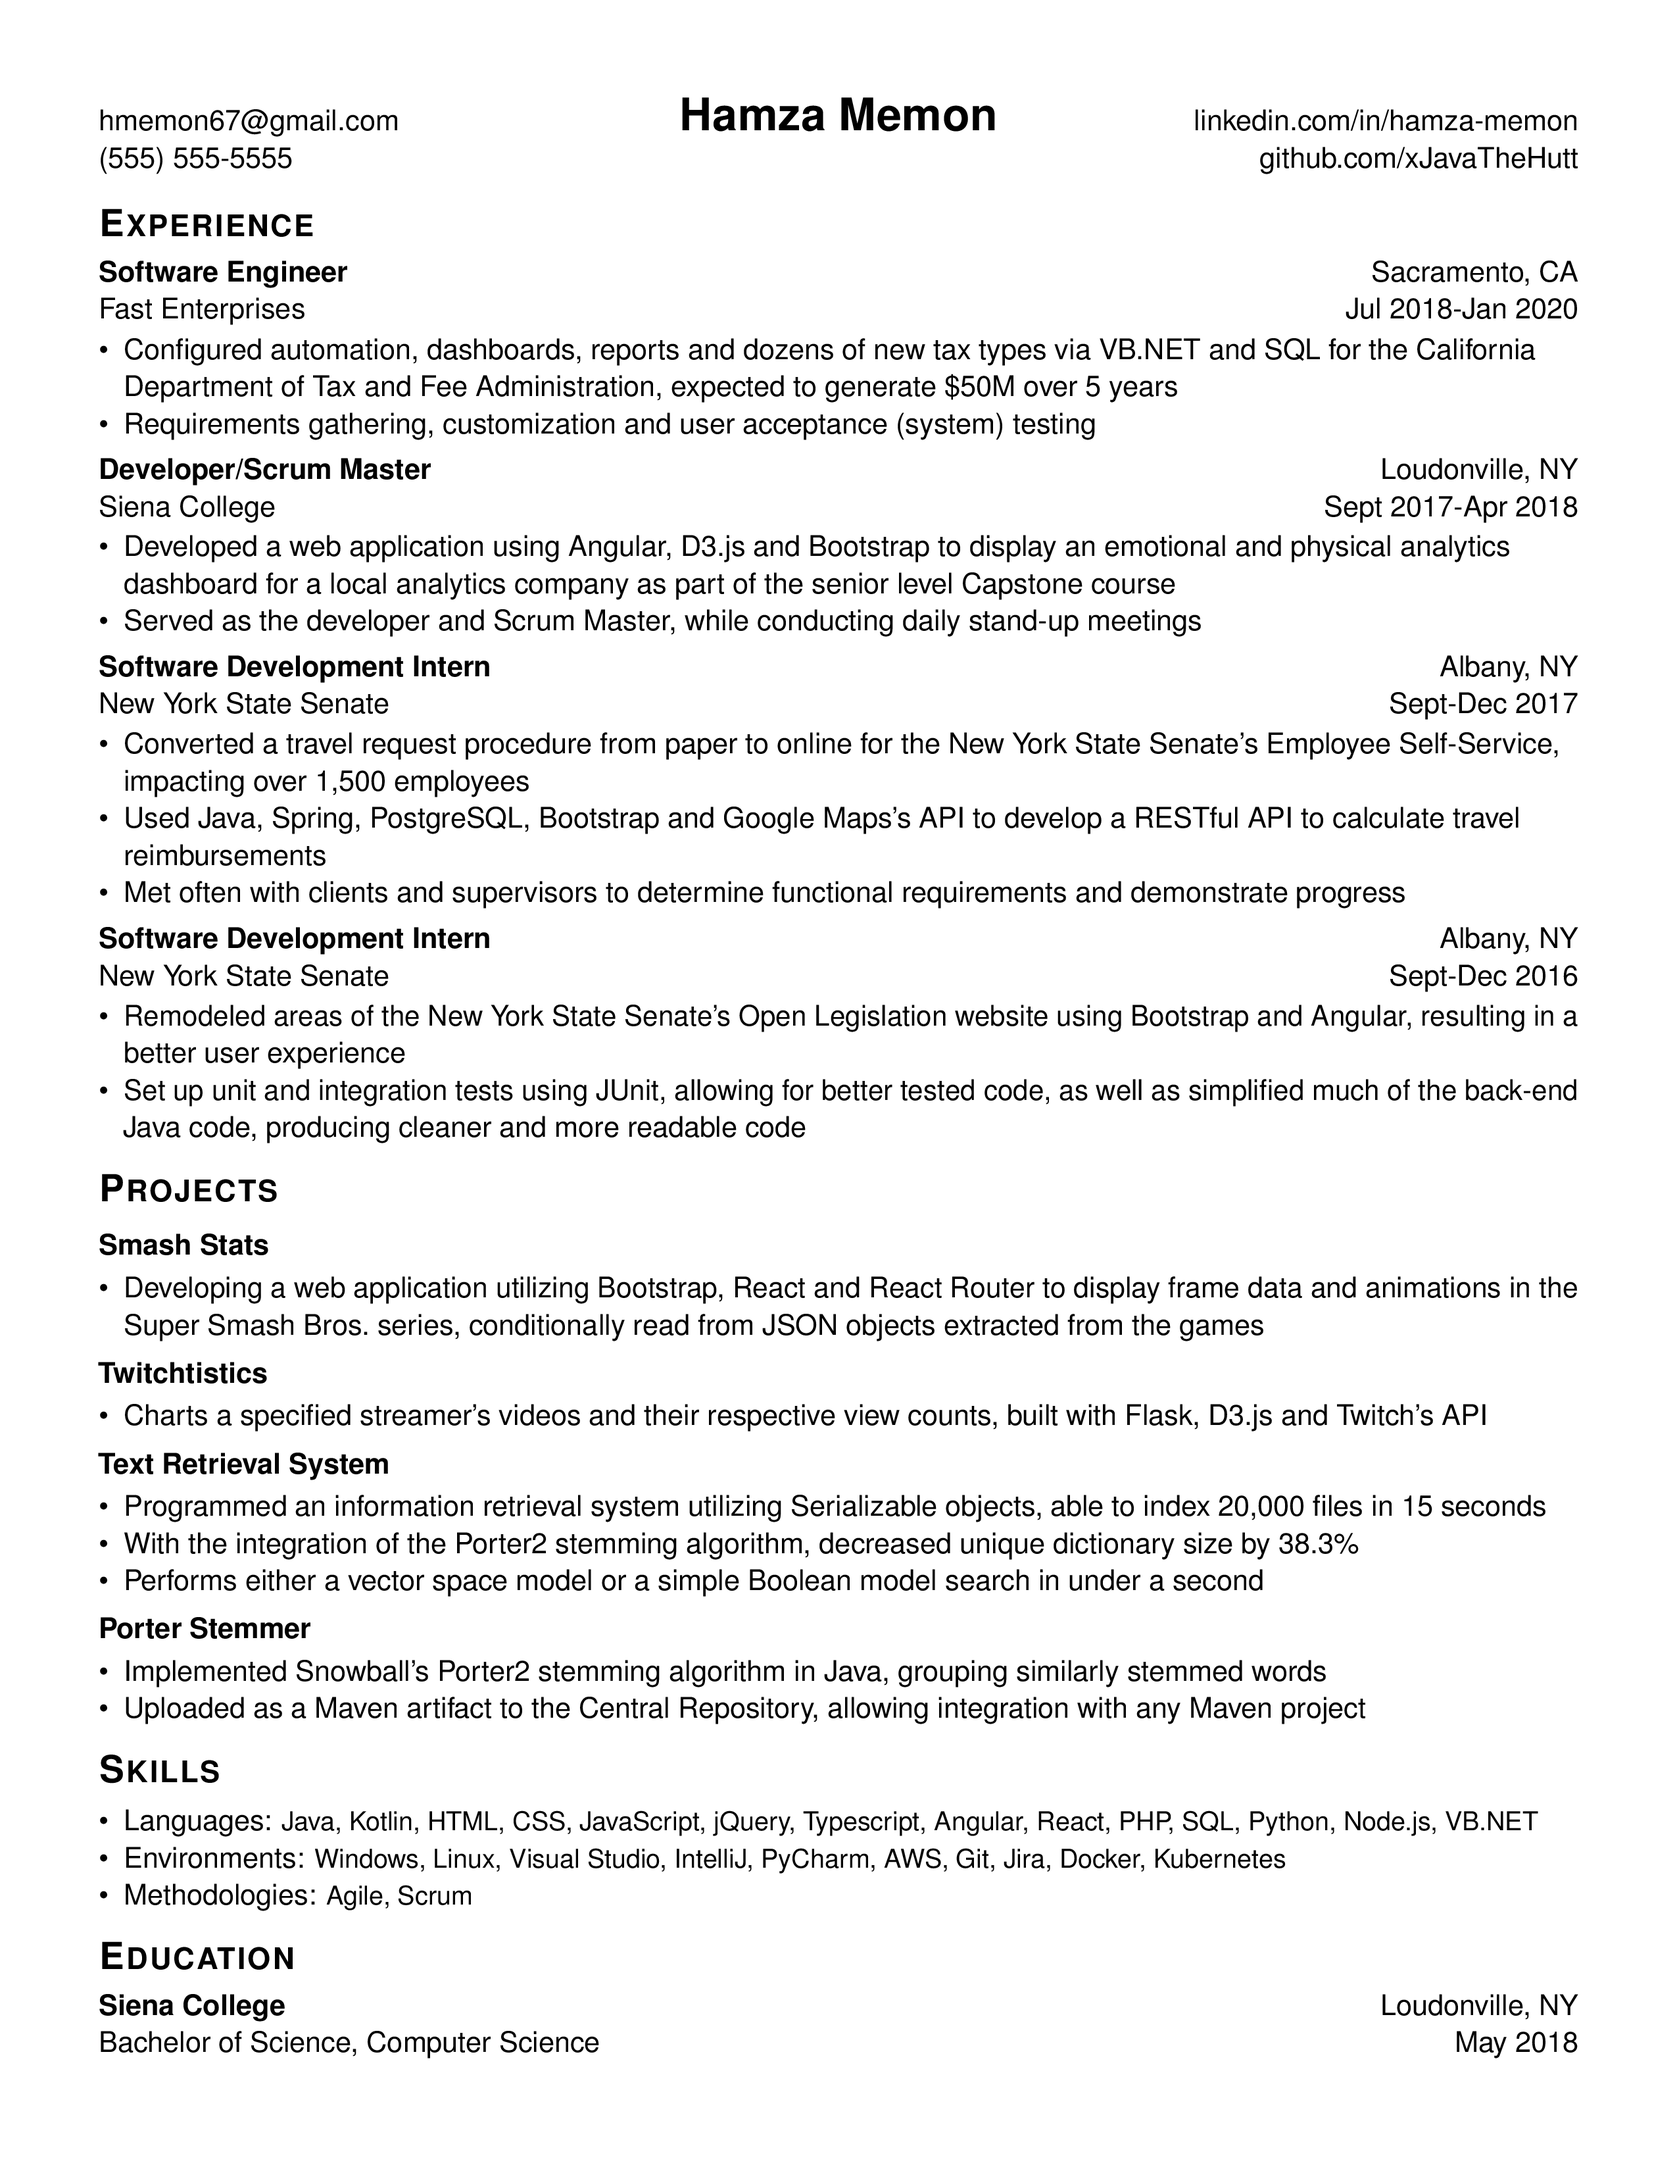
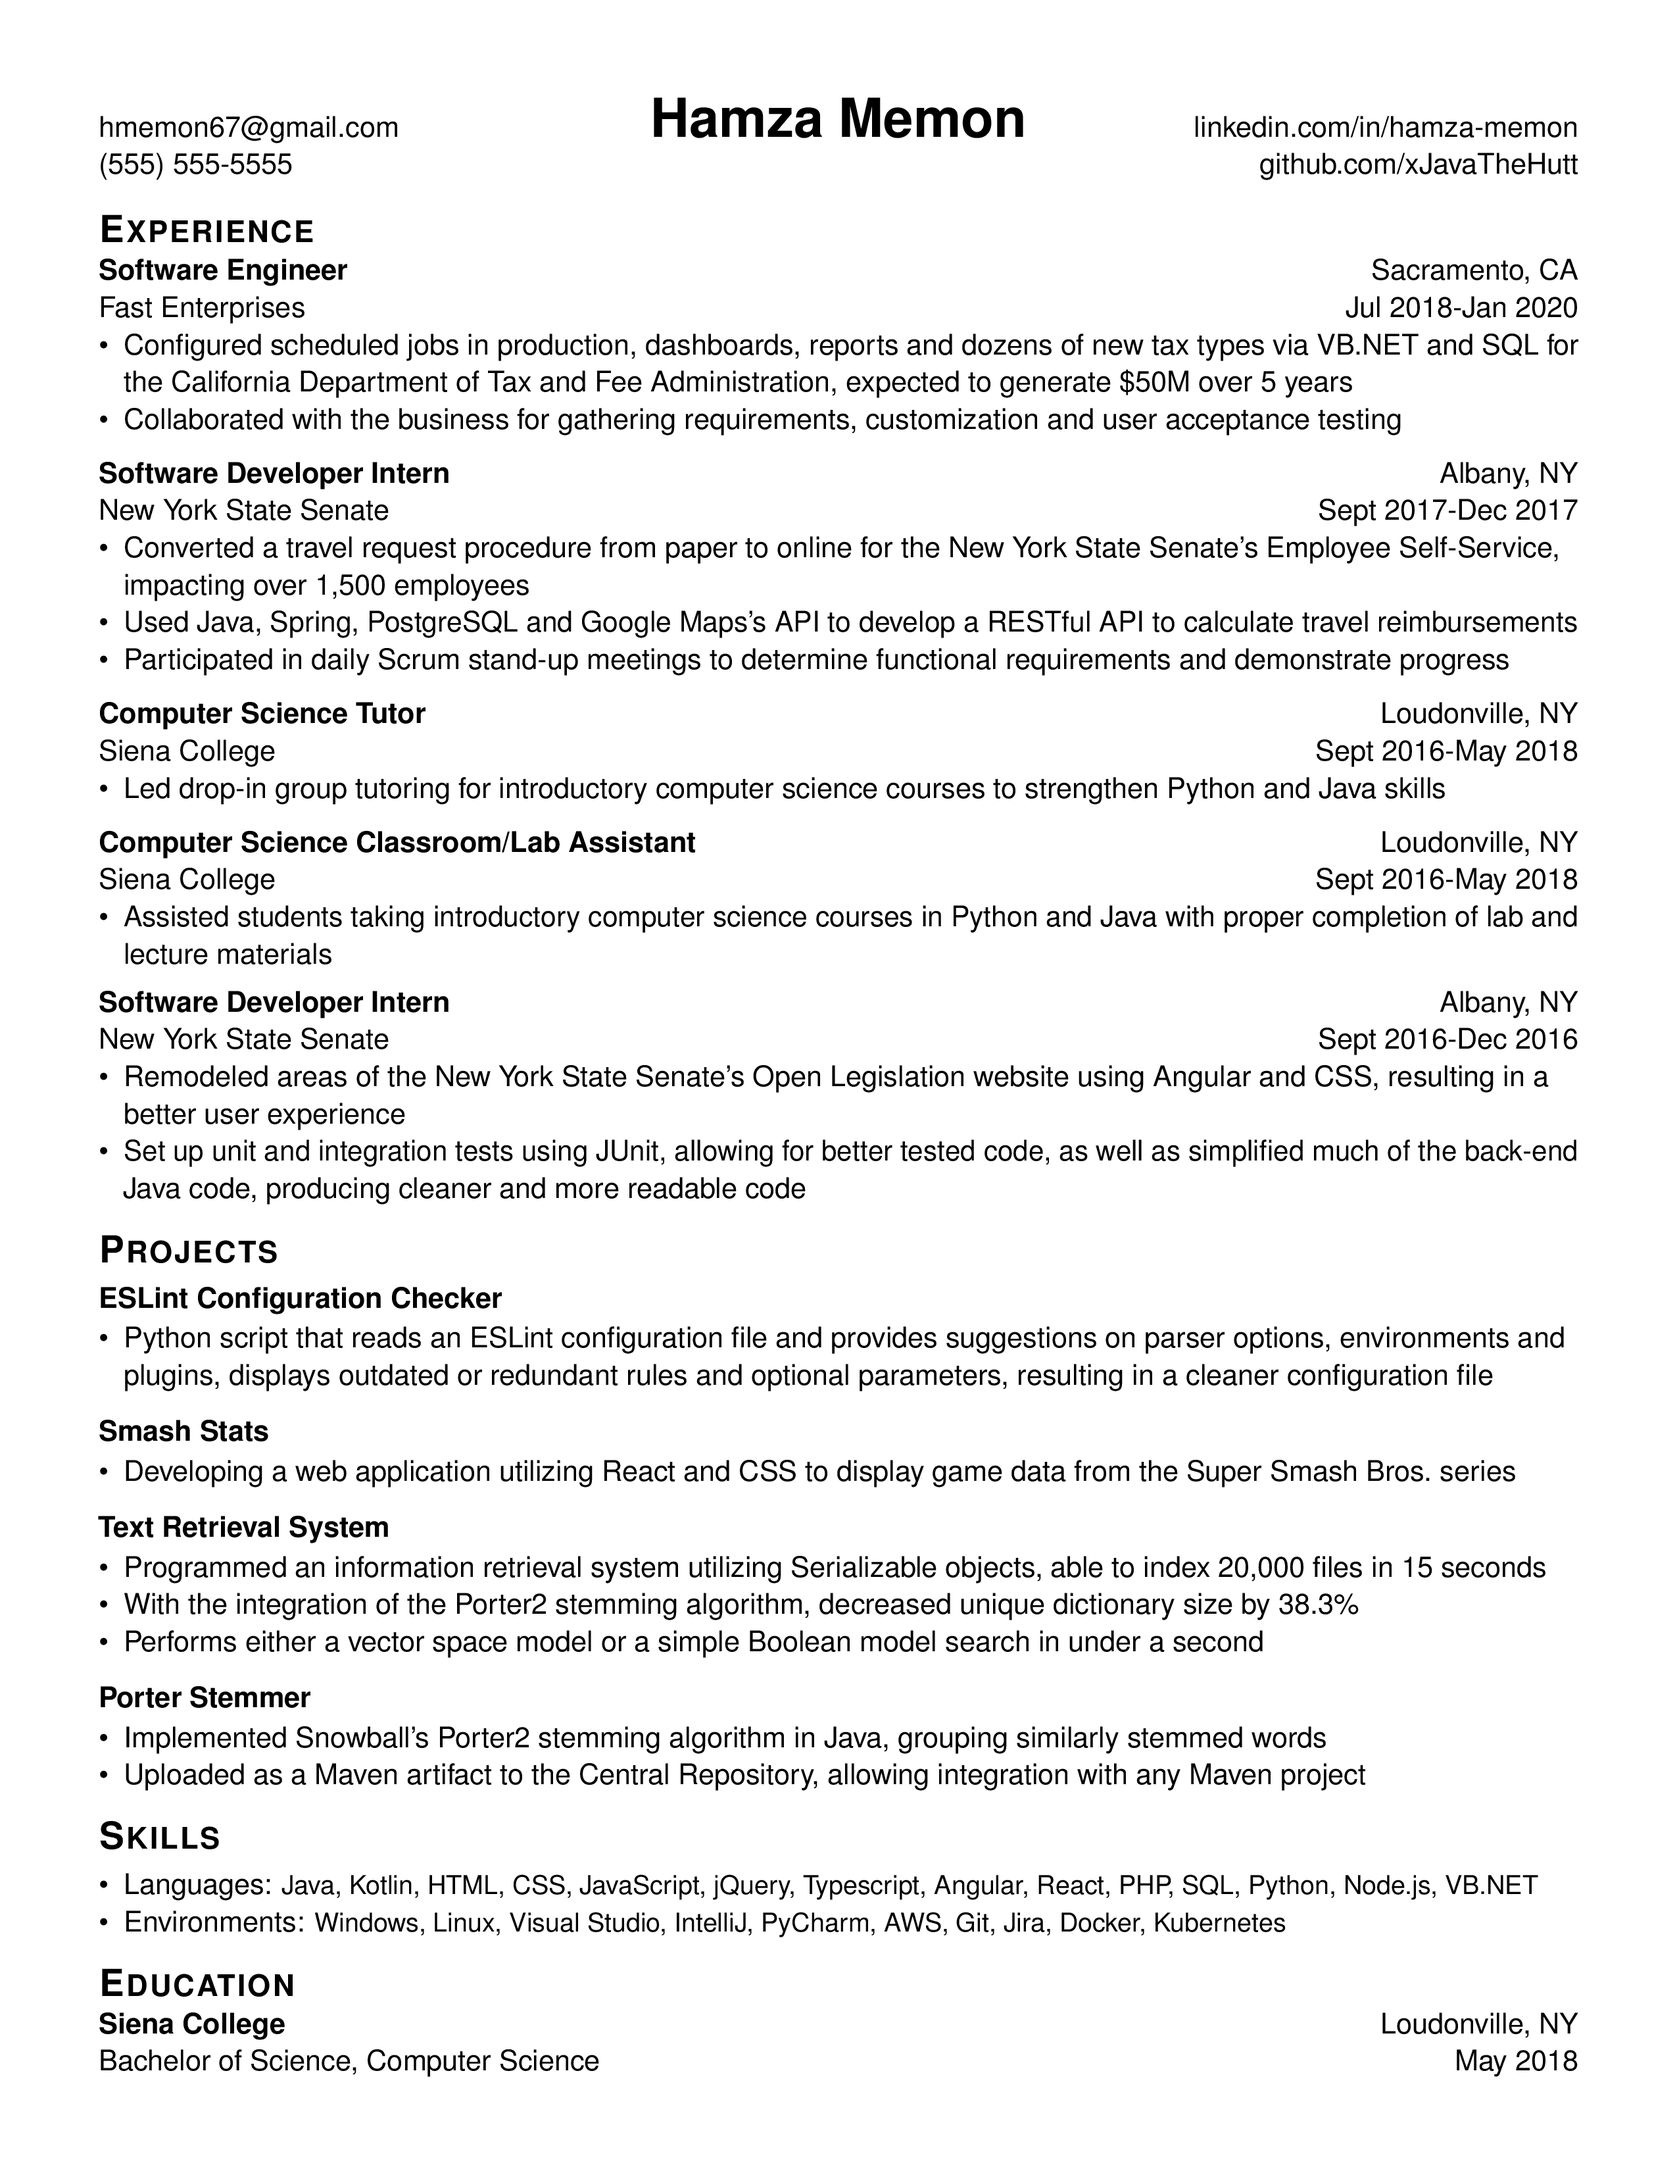
:lipstick: Added CS degrees, changed spacing and language.

diff --git a/resume.tex b/resume.tex
@@ -7,7 +7,6 @@
 \github{github.com/xJavaTheHutt}
 \skills{Java, Kotlin, HTML, CSS, JavaScript, jQuery, Typescript, Angular, React, PHP, SQL, Python, Node.js, VB.NET}
 \environments{Windows, Linux, Visual Studio, IntelliJ, PyCharm, AWS, Git, Jira, Docker, Kubernetes}
-\methodologies{Agile, Scrum}
 
 
 %-------------------------------------------
@@ -20,35 +19,45 @@
 
 %----------EXPERIENCE-----------------
 \begin{cvsection}{Experience}
-  \begin{cvsubsection}{Software Engineer}{Fast Enterprises}{Sacramento, CA}{Jul 2018-Jan 2020}
+  \begin{cvsubsectionstart}{Software Engineer}{Fast Enterprises}{Sacramento, CA}{Jul 2018-Jan 2020}
     \begin{itemize}
-      \item{Configured automation, dashboards, reports and dozens of new tax types via VB.NET and SQL for the California Department of Tax and Fee Administration, expected
-      to generate \$50M over 5 years}
-      \item{Requirements gathering, customization and user acceptance (system) testing}
+      \item{Configured scheduled jobs in production, dashboards, reports and dozens of new tax
+          types via VB.NET and SQL for the California Department of Tax and Fee Administration,
+          expected to generate \$50M over 5 years}
+      \item{Collaborated with the business for gathering requirements, customization and user
+          acceptance testing}
     \end{itemize}
-  \end{cvsubsection}
+  \end{cvsubsectionstart}
 
-  \begin{cvsubsection}{Developer/Scrum Master}{Siena College}{Loudonville, NY}{Sept 2017-Apr 2018}
-    \begin{itemize}
-      \item{Developed a web application using Angular, D3.js and Bootstrap to display an emotional and physical
-          analytics dashboard for a local analytics company as part of the senior level Capstone course}
-      \item{Served as the developer and Scrum Master, while conducting daily stand-up meetings}
-    \end{itemize}
-  \end{cvsubsection}
-
-  \begin{cvsubsection}{Software Development Intern}{New York State Senate}{Albany, NY}{Sept-Dec 2017}
+  \begin{cvsubsection}{Software Developer Intern}{New York State Senate}{Albany, NY}{Sept 2017-Dec 2017}
     \begin{itemize}
       \item{Converted a travel request procedure from paper to online for the New York
         State Senate's Employee Self-Service, impacting over 1,500 employees}
-      \item{Used Java, Spring, PostgreSQL, Bootstrap and Google Maps's API to develop a RESTful API to calculate travel reimbursements}
-      \item{Met often with clients and supervisors to determine functional requirements and demonstrate progress}
+      \item{Used Java, Spring, PostgreSQL and Google Maps's API to develop a RESTful API to
+        calculate travel reimbursements}
+      \item{Participated in daily Scrum stand-up meetings to determine functional requirements and
+        demonstrate progress}
     \end{itemize}
   \end{cvsubsection}
 
-  \begin{cvsubsection}{Software Development Intern}{New York State Senate}{Albany, NY}{Sept-Dec 2016}
+  \begin{cvsubsection}{Computer Science Tutor}{Siena College}{Loudonville, NY}{Sept 2016-May 2018}
     \begin{itemize}
-      \item{Remodeled areas of the New York State Senate's Open Legislation website using Bootstrap
-        and Angular, resulting in a better user experience}
+      \item{Led drop-in group tutoring for introductory computer science courses to strengthen
+        Python and Java skills}
+    \end{itemize}
+  \end{cvsubsection}
+
+  \begin{cvsubsection}{Computer Science Classroom/Lab Assistant}{Siena College}{Loudonville, NY}{Sept 2016-May 2018}
+    \begin{itemize}
+      \item{Assisted students taking introductory computer science courses in Python and Java with
+        proper completion of lab and lecture materials}
+    \end{itemize}
+  \end{cvsubsection}
+
+  \begin{cvsubsection}{Software Developer Intern}{New York State Senate}{Albany, NY}{Sept 2016-Dec 2016}
+    \begin{itemize}
+      \item{Remodeled areas of the New York State Senate's Open Legislation website using Angular
+        and CSS, resulting in a better user experience}
       \item{Set up unit and integration tests using JUnit, allowing for better tested code, as well
         as simplified much of the back-end Java code, producing cleaner and more readable code}
     \end{itemize}
@@ -58,18 +67,18 @@
 
 %-----------PROJECTS-----------------
 \begin{cvsection}{Projects}
+  \begin{cvprojectstart}{ESLint Configuration Checker}
+    \begin{itemize}
+      \item{Python script that reads an ESLint configuration file and provides suggestions on parser
+        options, environments and plugins, displays outdated or redundant rules and optional
+        parameters, resulting in a cleaner configuration file}
+    \end{itemize}
+  \end{cvprojectstart}
+
   \begin{cvproject}{Smash Stats}
     \begin{itemize}
-      \item{Developing a web application utilizing Bootstrap, React and React Router to display
-          frame data and animations in the Super Smash Bros.\ series, conditionally read from
-          JSON objects extracted from the games}
-    \end{itemize}
-  \end{cvproject}
-
-  \begin{cvproject}{Twitchtistics}
-    \begin{itemize}
-      \item{Charts a specified streamer's videos and their respective view counts, built with Flask,
-        D3.js and Twitch's API}
+      \item{Developing a web application utilizing React and CSS to display game data from the
+          Super Smash Bros.\ series}
     \end{itemize}
   \end{cvproject}
 
@@ -98,8 +107,8 @@
 
 %-----------EDUCATION-----------------
 \begin{cvsection}{Education}
-  \begin{cvsubsection}{Siena College}{Bachelor of Science, Computer Science}{Loudonville, NY}{May 2018}
-  \end{cvsubsection}
+  \begin{cvsubsectionstart}{Siena College}{Bachelor of Science, Computer Science}{Loudonville, NY}{May 2018}
+  \end{cvsubsectionstart}
 \end{cvsection}
 
 
